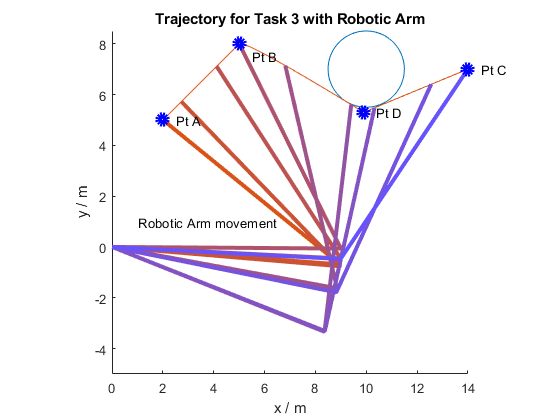
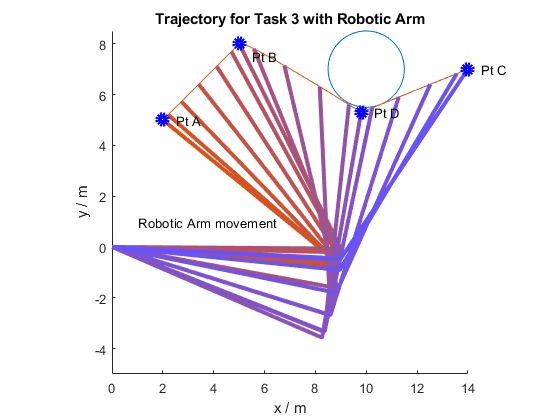
Modigy trajgen01 again

diff --git a/Assignment 3/Assignment3_task3.m b/Assignment 3/Assignment3_task3.m
@@ -3,29 +3,23 @@ close all
 clear all
 
 % timing, position and velocity for pt B, pt C and pt D
-time = [0,3,5.5,8];
+time = [3,5.5,8];
 ptA = [2,5;0,0];
 ptB = [5,8;0.25,0.25];
 ptC = [14,7;0,0];
-ptD = [9.9,5.3;0,0];
+ptD = [9.8,5.3;0,0];
 %% calculate the segments coefficents for x and y
-x_coeff_1 = TrajGen01(ptA(:,1),ptB(:,1),time(1:2));
-x_coeff_2 = TrajGen01(ptB(:,1),ptD(:,1),time(2:3));
-x_coeff_3 = TrajGen01(ptD(:,1),ptC(:,1),time(3:4));
-y_coeff_1 = TrajGen01(ptA(:,2),ptB(:,2),time(1:2));
-y_coeff_2 = TrajGen01(ptB(:,2),ptD(:,2),time(2:3));
-y_coeff_3 = TrajGen01(ptD(:,2),ptC(:,2),time(3:4));
-x_coeff = [x_coeff_1;x_coeff_2;x_coeff_3];
-y_coeff = [y_coeff_1;y_coeff_2;y_coeff_3];
+x_coeff = TrajGen01([ptA(:,1),ptB(:,1),ptD(:,1)],[ptB(:,1),ptD(:,1),ptC(:,1)],time);
+y_coeff = TrajGen01([ptA(:,2),ptB(:,2),ptD(:,2)],[ptB(:,2),ptD(:,2),ptC(:,2)],time);
 
 %% get the displacement and velocity in both x and y
-x_displacement = plot_displacement(x_coeff,time(2:4),true);
+x_displacement = plot_displacement(x_coeff,time,true);
 title('x displacement vs time')
-y_displacement = plot_displacement(y_coeff,time(2:4),true);
+y_displacement = plot_displacement(y_coeff,time,true);
 title('y displacement vs time')
-plot_velocity(x_coeff,time(2:4));
+plot_velocity(x_coeff,time);
 title('x velocity vs time')
-plot_velocity(y_coeff,time(2:4));
+plot_velocity(y_coeff,time);
 title('y velocity vs time')
 
 
@@ -65,7 +59,7 @@ figure()
 hold on
 plot(circle_x,circle_y,'-')
 plot(x_displacement,y_displacement)
-skip_frame = 10;
+skip_frame = 50;
 for i = 0:skip_frame:length(Q1)-1
     plot_robot(Q1(i+1),Q2(i+1),0.9*i/length(Q1));
 end 

diff --git a/Assignment 3/Assignment3_task2.m b/Assignment 3/Assignment3_task2.m
@@ -2,32 +2,24 @@
 close all
 clear all
 % timing, position and velocity for pt B, pt C and pt D
-time = [0,3,5.5,8];
+time = [3,5.5,8];
 ptA = [2,5;0,0];
 ptB = [5,8;0.25,0.25];
 ptC = [14,7;0,0];
-ptD = [10.24,8.52;0,0];
+ptD = [10.25,8.52;0,0];
+
 %% calculate the segments coefficents for x and y
-x_coeff_1 = TrajGen01(ptA(:,1),ptB(:,1),time(1:2));
-x_coeff_2 = TrajGen01(ptB(:,1),ptD(:,1),time(2:3));
-x_coeff_3 = TrajGen01(ptD(:,1),ptC(:,1),time(3:4));
-y_coeff_1 = TrajGen01(ptA(:,2),ptB(:,2),time(1:2));
-y_coeff_2 = TrajGen01(ptB(:,2),ptD(:,2),time(2:3));
-y_coeff_3 = TrajGen01(ptD(:,2),ptC(:,2),time(3:4));
-x_coeff = [x_coeff_1;x_coeff_2;x_coeff_3];
-y_coeff = [y_coeff_1;y_coeff_2;y_coeff_3];
-% if we assume no point d
-% tfinal = [3,8];
-% x_coeff = TrajGen([2,0],[14,0],[5,0.25],[3,8]);
-% y_coeff = TrajGen([5,0],[7,0],[8,0.25],[3,8]);
+x_coeff = TrajGen01([ptA(:,1),ptB(:,1),ptD(:,1)],[ptB(:,1),ptD(:,1),ptC(:,1)],time);
+y_coeff = TrajGen01([ptA(:,2),ptB(:,2),ptD(:,2)],[ptB(:,2),ptD(:,2),ptC(:,2)],time);
+
 %% get the displacement and velocity in both x and y
-x_displacement = plot_displacement(x_coeff,time(2:4),true);
+x_displacement = plot_displacement(x_coeff,time,true);
 title('x displacement vs time')
-y_displacement = plot_displacement(y_coeff,time(2:4),true);
+y_displacement = plot_displacement(y_coeff,time,true);
 title('y displacement vs time')
-plot_velocity(x_coeff,time(2:4));
+plot_velocity(x_coeff,time);
 title('x velocity vs time')
-plot_velocity(y_coeff,time(2:4));
+plot_velocity(y_coeff,time);
 title('y velocity vs time')
 
 %% draw the obstacle circle

diff --git a/Assignment 3/TrajGen_each_seg.m b/Assignment 3/TrajGen_each_seg.m
@@ -1,0 +1,31 @@
+function segmentCoeff = TrajGen_each_seg(init, final, time)
+%% checking the size and validity of the input
+if (length(init) ~= 2 ||  length(final) ~= 2 || length(time) ~= 2)
+    warning('The input is not valid')
+    return;
+end
+
+%% Setup the variables
+init_pos = init(1);
+init_vel = init(2);
+final_pos = final(1);
+final_vel = final(2);
+init_time = time(1);
+final_time = time(2);
+%% set up a matrix to represent the cubic spline
+%the equation are written in the form a*t^3 + b*t^2 + c*t + d = c 
+M = [init_time^3 init_time^2 init_time^1 1;
+     3*init_time^2 2*init_time 1 0;
+     final_time^3 final_time^2 final_time^1 1;
+     3*final_time^2 2*final_time 1 0];
+
+ %% The coefficient the matrix should equal to
+ y = [init_pos;
+      init_vel;
+      final_pos;
+      final_vel];
+segmentCoeff = M^-1*y; 
+end
+
+
+

diff --git a/Assignment 3/plot_displacement.m b/Assignment 3/plot_displacement.m
@@ -8,7 +8,7 @@ end
 %% plot the cubic spline
 % get the array for t
 t = 0;
-delta = 0.1;
+delta = 0.01;
 for i = 1:length(tfinal)
     t = [t (t(end)+delta):delta:tfinal(i)];
 end
